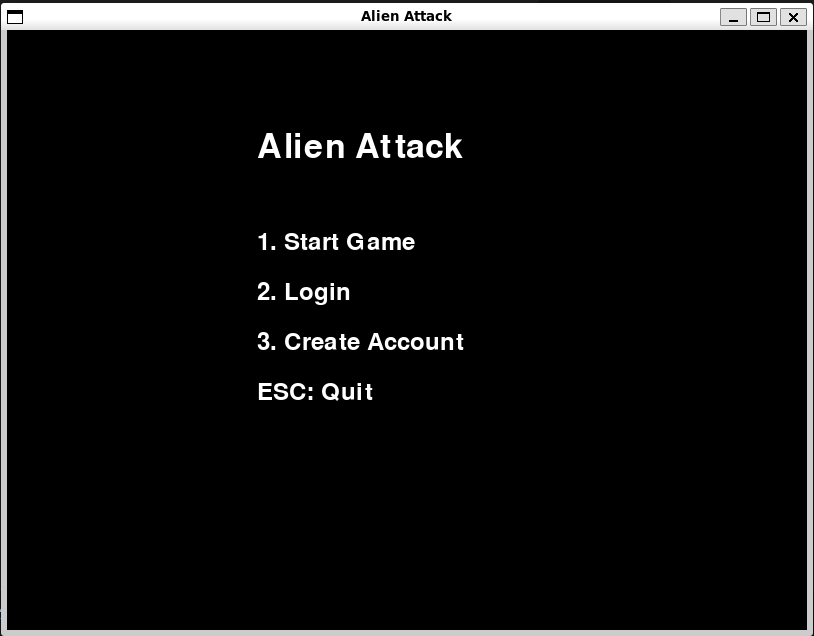
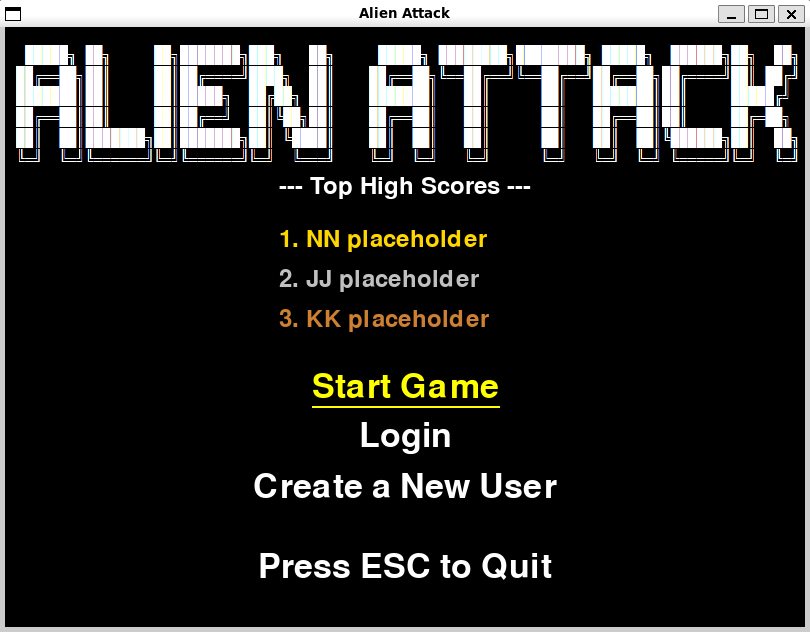
Update user manual

diff --git a/dokumentaatio/kayttoohje.md b/dokumentaatio/kayttoohje.md
@@ -23,25 +23,33 @@ Ensimmäisenä asenna poetryn riippuvuudet:
 poetry install
 ```
 
-Sen jälkeen :
+Sen jälkeen lisätään projektiin tietokanta ja taulut komennolla:
 
 ```bash
 poetry run invoke build
 ```
 
-Ohjelman pitäisi käynnistyä komennolla:
+Ohjelma käynnistyy komennolla:
 
 ```
 poetry run invoke start
 ```
 
-## Uuden käyttäjän luominen
+## Aloitusvalikko
 
 Peli käynnistyy aloitusvalikkoon:
 
 ![](./kuvat/alien_attack_start_screen.png)
 
-Voit painaa joko numeroa 3 tai klikata hiirellä __Create Account__, jolloin peli ohjaa tähän näkymään:
+Voit navigoida joko nuolinäppäimillä tai __TAB__-näppäimellä.
+
+## Uuden käyttäjän luominen
+
+Valitse __Create a New User__, 
+
+![](./kuvat/alien_attack_start_screen_register.png)
+
+jolloin peli ohjaa tähän näkymään:
 
 ![](./kuvat/alien_attack_register_screen.png)
 
@@ -52,7 +60,10 @@ Luotuasi uuden tunnuksen saat siitä ilmoituksen ja peli ohjautuu takaisin aloit
 ## Kirjautuminen
 
 Luotuasi käyttäjän voit kirjautua sisään. 
-Voit painaa joko numeroa 2 tai klikata hiirellä __Login__, 
+Valitse __Login__, 
+
+![](./kuvat/alien_attack_start_screen_login.png)
+
 jolloin peli ohjaa näkymään:
 
 ![](./kuvat/alien_attack_login_screen.png)
@@ -62,11 +73,15 @@ Syötä kenttiin tunnus ja salasana ja paina Enter, jolloin peli ohjautuu kirjau
 
 ## Pelin aloittaminen
 
-Voit aloittaa pelin painamalla numeroa 1 tai klikkaamalla hiirellä __Start Game__. Jos olet kirjautunut sisään, peli tallentaa henkilökohtaisen piste-ennätyksen ja korkeimman saavutetun tason. 
+Voit aloittaa pelin painamalla __Enter__, kun __Start Game__ on valittuna. Jos olet kirjautunut sisään, peli tallentaa henkilökohtaisen piste-ennätyksen ja korkeimman saavutetun tason. 
 
 ## Pelaaminen
 
 Pelaaja on punainen alus ruudun alalaidassa.
+
+Yritä väistellä sinisten vihollisten luoteja ja ampua vihollisia ennen kuin ne saavuttavat sinut. Saat jokaisesta ammutusta vihollisesta pisteitä. Tasot vaikeutuvat koko ajan. Viimeinen taso on 15. 
+
+Jos vihollinen osuu pelaajaan 3 kertaa peli on ohi. 
 
 Liikkuminen:     
 - oikealle: paina __d__
@@ -77,4 +92,24 @@ Ampuminen:
 
 ![](./kuvat/alien_attack_game_screen.png)
 
-Yritä väistellä sinisten vihollisten luoteja ja ampua vihollisia ennen kuin ne saavuttavat sinut niin pitkään kuin pystyt. 
+ 
+
+### Vihollinen 1 
+
+![](./kuvat/enemy1.png)  
+- Elämät: 1 
+- Pisteet: 1
+
+### Vihollinen 2
+
+![](./kuvat/enemy2.png)  
+- Elämät: 2 
+- Pisteet: 2
+
+### Vihollinen 3
+
+![](./kuvat/enemy3.png)  
+- Elämät: 3 
+- Pisteet: 3
+
+
